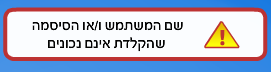
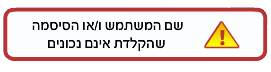
wong info image now hsows when username or passwords are incoreect is entered

Changed region(s): [[0.0, 0.0, 1.0, 1.0]]

diff --git a/mikGUI/mik-Wpf/pages/login.xaml b/mikGUI/mik-Wpf/pages/login.xaml
@@ -38,6 +38,7 @@
 
                     </StackPanel>
                 </Border>
+                <Image Margin="450,252,100,80" Name="wong_info" Visibility="Hidden" Source="../images/wrong_info.png" Stretch="Fill" />
 
                 <!--register section-->
                 <Grid HorizontalAlignment="Left" Height="170" VerticalAlignment="Top" Width="235.2" Margin="48,127.2,0,0">
@@ -46,8 +47,7 @@
                         <RowDefinition Height="43*"/>
                         <RowDefinition Height="12*"/>
                     </Grid.RowDefinitions>
-                    
-                    <Image Source="../images/register.png" Stretch="Fill" Grid.RowSpan="3"/>
+
                     <Image Source="../images/register.png" Stretch="Fill" Grid.RowSpan="3"/>
                     <Button Name="register_btn" HorizontalAlignment="Left" VerticalAlignment="Top" Width="178.973" Style="{DynamicResource register}" Height="36.083" BorderBrush="{x:Null}" Margin="32.8,3.767,0,0" Grid.Row="1" Click="register_btn_Click">
 

diff --git a/mikGUI/mik-Wpf/pages/login.xaml.cs b/mikGUI/mik-Wpf/pages/login.xaml.cs
@@ -45,6 +45,11 @@ namespace mik_Wpf
                     this.NavigationService.Navigate(new join_games());
 
                 }
+                else
+                {
+                    this.wong_info.Visibility = Visibility.Visible;
+
+                }
             }
 
 
